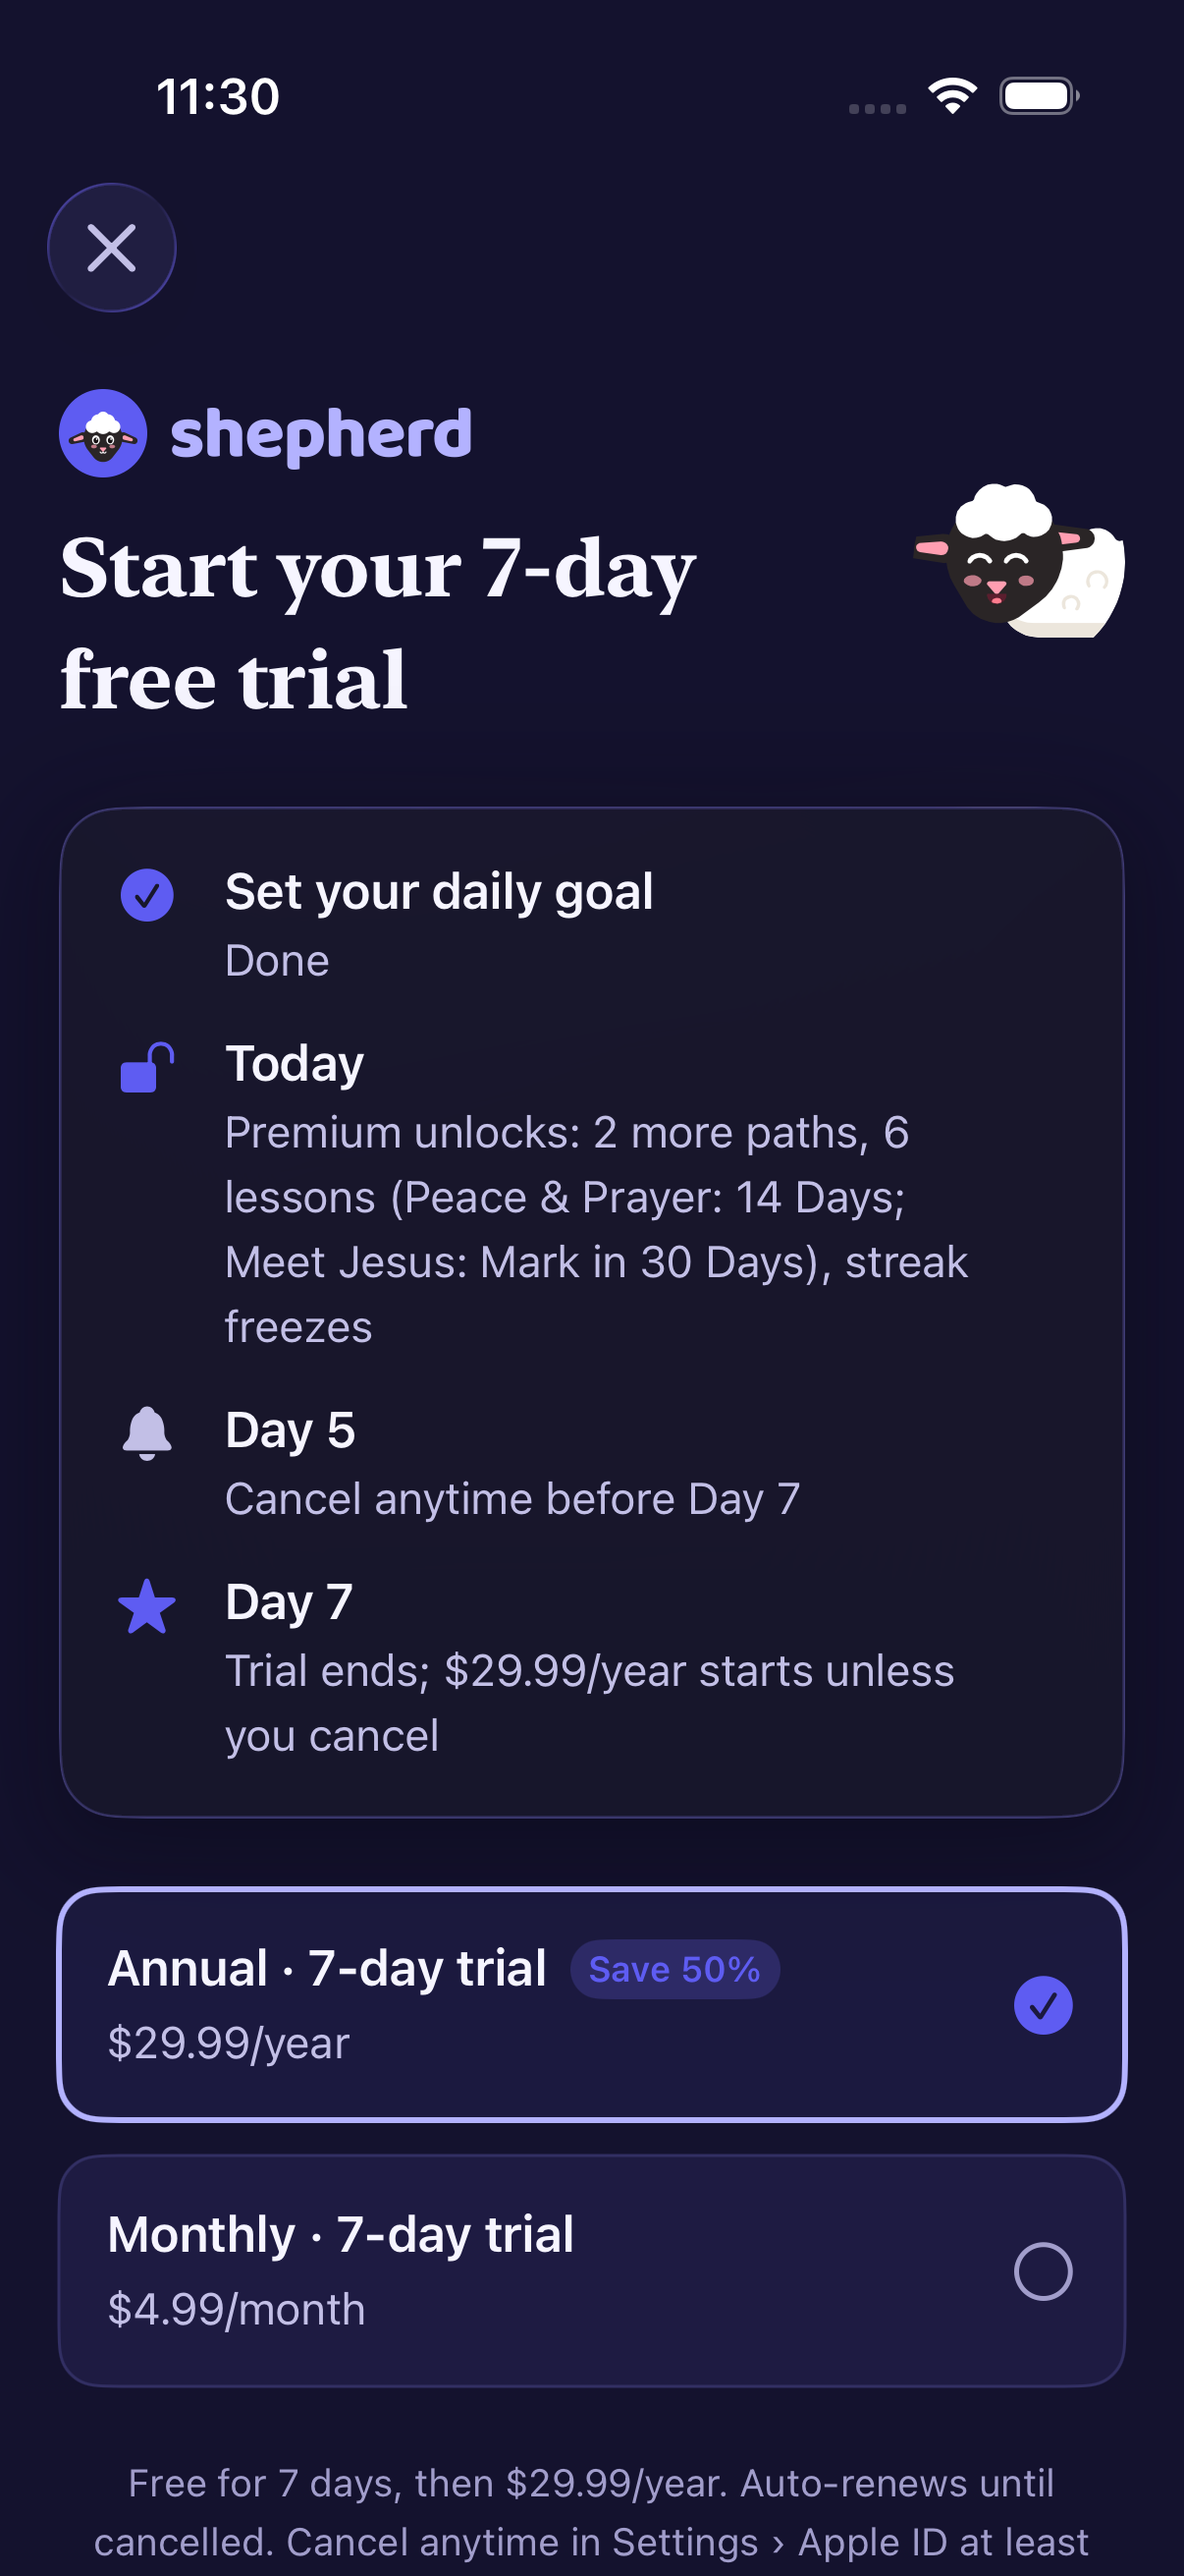
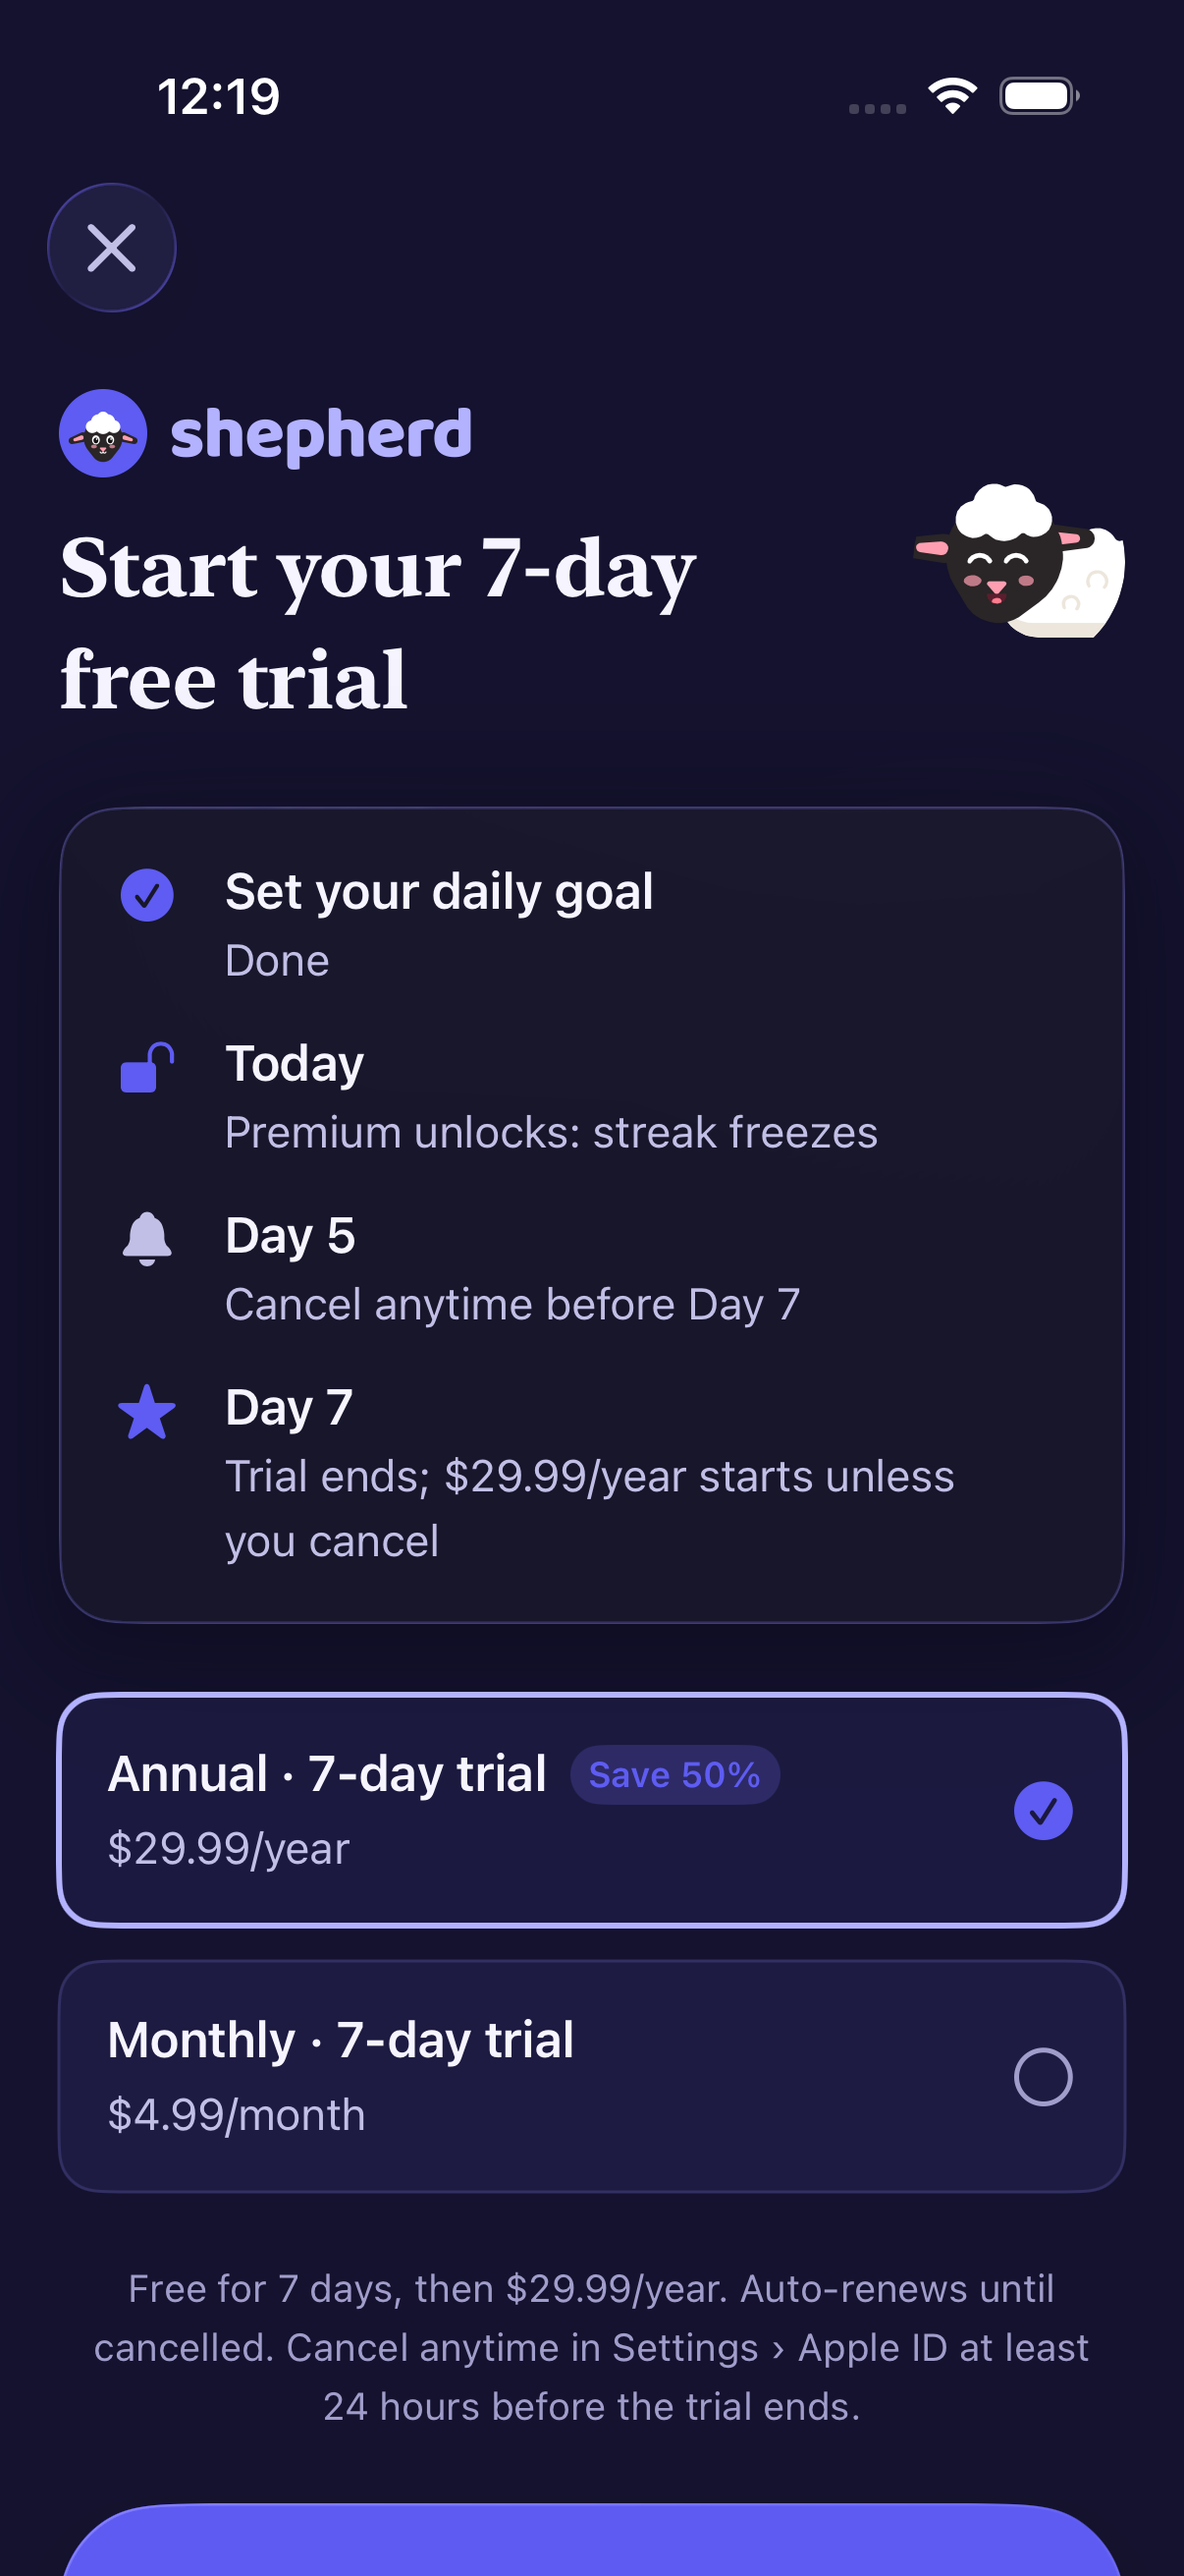
fix(review): paywall counts only lessons Premium actually opens; validator checks “curly”-quoted quotations
B1: PremiumOffer counted free preview lessons as Premium ('2 more paths, 6 lessons' while
Premium opened none). It now counts lessons beyond freePreviewLessons ('38 Premium lessons
in 2 paths' at launch shape) and drops the path claim when that is 0.
B2: QUOTE only matched straight quotes, so a misquote in “…” passed. It now matches both.

diff --git a/ShepherdTests/ContentTests.swift b/ShepherdTests/ContentTests.swift
@@ -226,18 +226,36 @@ final class ContentTests: XCTestCase {
     // MARK: - Honest paywall
 
     func testPaywallCountsComeFromContent() {
+        // Today both Premium paths hold only their 3 free preview lessons: Premium opens no
+        // lesson yet, so the paywall must not claim any.
         let offer = PremiumOffer(paths: store.paths)
-        let premium = store.paths.filter { $0.access == .premium }
-        XCTAssertEqual(offer.pathTitles, premium.map(\.title))
-        XCTAssertEqual(offer.lessonCount, premium.reduce(0) { $0 + $1.lessons.count })
-        XCTAssertEqual(offer.pathsSummary, "2 more paths, 6 lessons")
+        let premiumOnly = store.paths
+            .filter { $0.access == .premium }
+            .reduce(0) { $0 + max(0, $1.lessons.count - $1.freePreviewLessons) }
+        XCTAssertEqual(offer.lessonCount, premiumOnly)
+        XCTAssertEqual(offer.lessonCount, 0)
+        XCTAssertNil(offer.pathsSummary)
+        XCTAssertEqual(offer.unlocksLine, "Premium unlocks: streak freezes")
 
-        let line = offer.unlocksLine
-        XCTAssertTrue(line.contains("2 more paths, 6 lessons"))
-        XCTAssertTrue(line.contains("Peace & Prayer: 14 Days"))
         for claim in ["full learning paths", "outfits", "widgets", "reminders"] {
-            XCTAssertFalse(line.localizedCaseInsensitiveContains(claim), "paywall claims '\(claim)', which this build does not offer")
+            XCTAssertFalse(offer.unlocksLine.localizedCaseInsensitiveContains(claim), "paywall claims '\(claim)', which this build does not offer")
         }
-        XCTAssertNil(PremiumOffer(paths: store.paths.filter { $0.access != .premium }).pathsSummary)
+    }
+
+    func testPaywallCountsOnlyLessonsBeyondTheFreePreview() {
+        // Launch shape: Peace 14 and Mark 30 with 3 free each -> 38 Premium lessons, not 44.
+        let peace = StudyPath(id: "peace", title: "Peace", level: "beginner", estimatedDays: 14, sortOrder: 2, access: .premium, freePreviewLessons: 3, lessons: lessons(14, prefix: "peace"))
+        let mark = StudyPath(id: "mark", title: "Mark", level: "some", estimatedDays: 30, sortOrder: 3, access: .premium, freePreviewLessons: 3, lessons: lessons(30, prefix: "mark"))
+        let free = StudyPath(id: "free", title: "Free", level: "beginner", estimatedDays: 30, sortOrder: 1, lessons: lessons(30, prefix: "free"))
+        let offer = PremiumOffer(paths: [free, peace, mark])
+        XCTAssertEqual(offer.lessonCount, 38)
+        XCTAssertEqual(offer.pathsSummary, "38 Premium lessons in 2 paths")
+        XCTAssertEqual(offer.unlocksLine, "Premium unlocks: 38 Premium lessons in 2 paths (Peace; Mark), streak freezes")
+
+        // A Premium path with one lesson past its preview, and one with none.
+        let stub = StudyPath(id: "stub", title: "Stub", level: "beginner", estimatedDays: 3, access: .premium, freePreviewLessons: 3, lessons: lessons(3, prefix: "stub"))
+        let four = StudyPath(id: "four", title: "Four", level: "beginner", estimatedDays: 4, access: .premium, freePreviewLessons: 3, lessons: lessons(4, prefix: "four"))
+        XCTAssertEqual(PremiumOffer(paths: [stub, four]).pathsSummary, "1 Premium lesson in 1 path")
+        XCTAssertEqual(PremiumOffer(paths: [stub, four]).pathTitles, ["Four"])
     }
 }

diff --git a/Shepherd/Models/PathCatalog.swift b/Shepherd/Models/PathCatalog.swift
@@ -68,22 +68,27 @@ public enum PathRecommender {
 }
 
 /// What Premium adds, counted from the bundled content so the paywall never claims more.
+/// Only lessons behind the paywall count: a Premium path's free preview lessons are free.
 public struct PremiumOffer: Equatable, Sendable {
+    /// Premium paths that have at least one lesson beyond their free preview.
     public let pathTitles: [String]
+    /// Lessons that only Premium opens.
     public let lessonCount: Int
 
     public init(paths: [StudyPath]) {
-        let premium = paths.filter { $0.access == .premium }.sorted { $0.sortOrder < $1.sortOrder }
+        let premium = paths
+            .filter { $0.access == .premium && $0.lessons.count > $0.freePreviewLessons }
+            .sorted { $0.sortOrder < $1.sortOrder }
         pathTitles = premium.map(\.title)
-        lessonCount = premium.reduce(0) { $0 + $1.lessons.count }
+        lessonCount = premium.reduce(0) { $0 + max(0, $1.lessons.count - $1.freePreviewLessons) }
     }
 
-    /// "2 more paths, 6 lessons"; nil when content has no Premium path.
+    /// "38 Premium lessons in 2 paths"; nil when Premium opens no lesson yet.
     public var pathsSummary: String? {
-        guard !pathTitles.isEmpty else { return nil }
-        let paths = pathTitles.count == 1 ? "1 more path" : "\(pathTitles.count) more paths"
-        let lessons = lessonCount == 1 ? "1 lesson" : "\(lessonCount) lessons"
-        return "\(paths), \(lessons)"
+        guard lessonCount > 0 else { return nil }
+        let lessons = lessonCount == 1 ? "1 Premium lesson" : "\(lessonCount) Premium lessons"
+        let paths = pathTitles.count == 1 ? "1 path" : "\(pathTitles.count) paths"
+        return "\(lessons) in \(paths)"
     }
 
     /// The paywall's "Premium unlocks" line: only features that exist in this build.

diff --git a/ShepherdUITests/RealFlowUITests.swift b/ShepherdUITests/RealFlowUITests.swift
@@ -317,7 +317,9 @@ final class RealFlowUITests: XCTestCase {
 
         // 7. Paywall
         XCTAssertTrue(app.staticTexts["Start your 7-day free trial"].waitForExistence(timeout: 6.0))
-        XCTAssertTrue(app.staticTexts.matching(NSPredicate(format: "label CONTAINS '2 more paths, 6 lessons'")).firstMatch.exists)
+        // Both Premium paths hold only their free preview lessons today, so Premium claims no lessons.
+        XCTAssertTrue(app.staticTexts["Premium unlocks: streak freezes"].exists)
+        XCTAssertFalse(element(app, containing: "Premium lesson").exists)
         XCTAssertFalse(app.staticTexts.matching(NSPredicate(format: "label CONTAINS[c] 'outfits' OR label CONTAINS[c] 'widgets' OR label CONTAINS[c] 'full learning paths'")).firstMatch.exists)
         Thread.sleep(forTimeInterval: 0.3)
         saveScreenshot("Paywall_Trial")

diff --git a/tools/content/test_validate_content.py b/tools/content/test_validate_content.py
@@ -91,6 +91,24 @@ class DefectsAreCaught(unittest.TestCase):
         q["explain"] = q["explain"].replace("God’s", "God's")
         self.assertCaught(b, r"day2: quotation is not verbatim WEB text")
 
+    def test_curly_quoted_misquote_in_lesson_prose(self):
+        # Authors may delimit quotations with typographic marks; those must be checked too.
+        b = self.mutated()
+        l = lesson(b, "peace-14.d01")
+        l["bodyMarkdown"] += (
+            "\n\nThe KJV reads differently: “Come unto me, all ye that labour and are heavy laden.”"
+        )
+        self.assertCaught(
+            b,
+            r"peace-14\.d01: quotation is not verbatim WEB text from its verses: \"Come unto me, all ye that labour",
+        )
+
+    def test_curly_quoted_faithful_quote_passes(self):
+        b = self.mutated()
+        l = lesson(b, "peace-14.d01")
+        l["bodyMarkdown"] += "\n\nHe says: “I am gentle and humble in heart.”"
+        self.assertEqual(errors(b), [])
+
     def test_misquote_in_lesson_prose(self):
         b = self.mutated()
         l = lesson(b, "peace-14.d01")

diff --git a/tools/content/validate_content.py b/tools/content/validate_content.py
@@ -30,7 +30,8 @@ SOURCE_SHA256 = "99ea438ef8a6a20a8122e1f1fa2b12da5504f6708c4b83bef98210ccf0533e1
 BIBLE_DIGEST = os.path.join(ROOT, "tools", "bible", "web.json.sha256")
 
 REF = re.compile(r"^([1-3]?[A-Z]{2,3})\.(\d+)\.(\d+)$")
-QUOTE = re.compile(r'"([^"]+)"')
+# Quotations may be delimited with straight "…" or typographic “…” marks; both are checked.
+QUOTE = re.compile(r'["“]([^"“”]+)["”]')
 BLANK = "___"
 MIN_QUOTE = 12  # shorter quoted strings are single words ("yoke"), not verse text
 ACCESS = {"free", "premium", "seasonal"}
